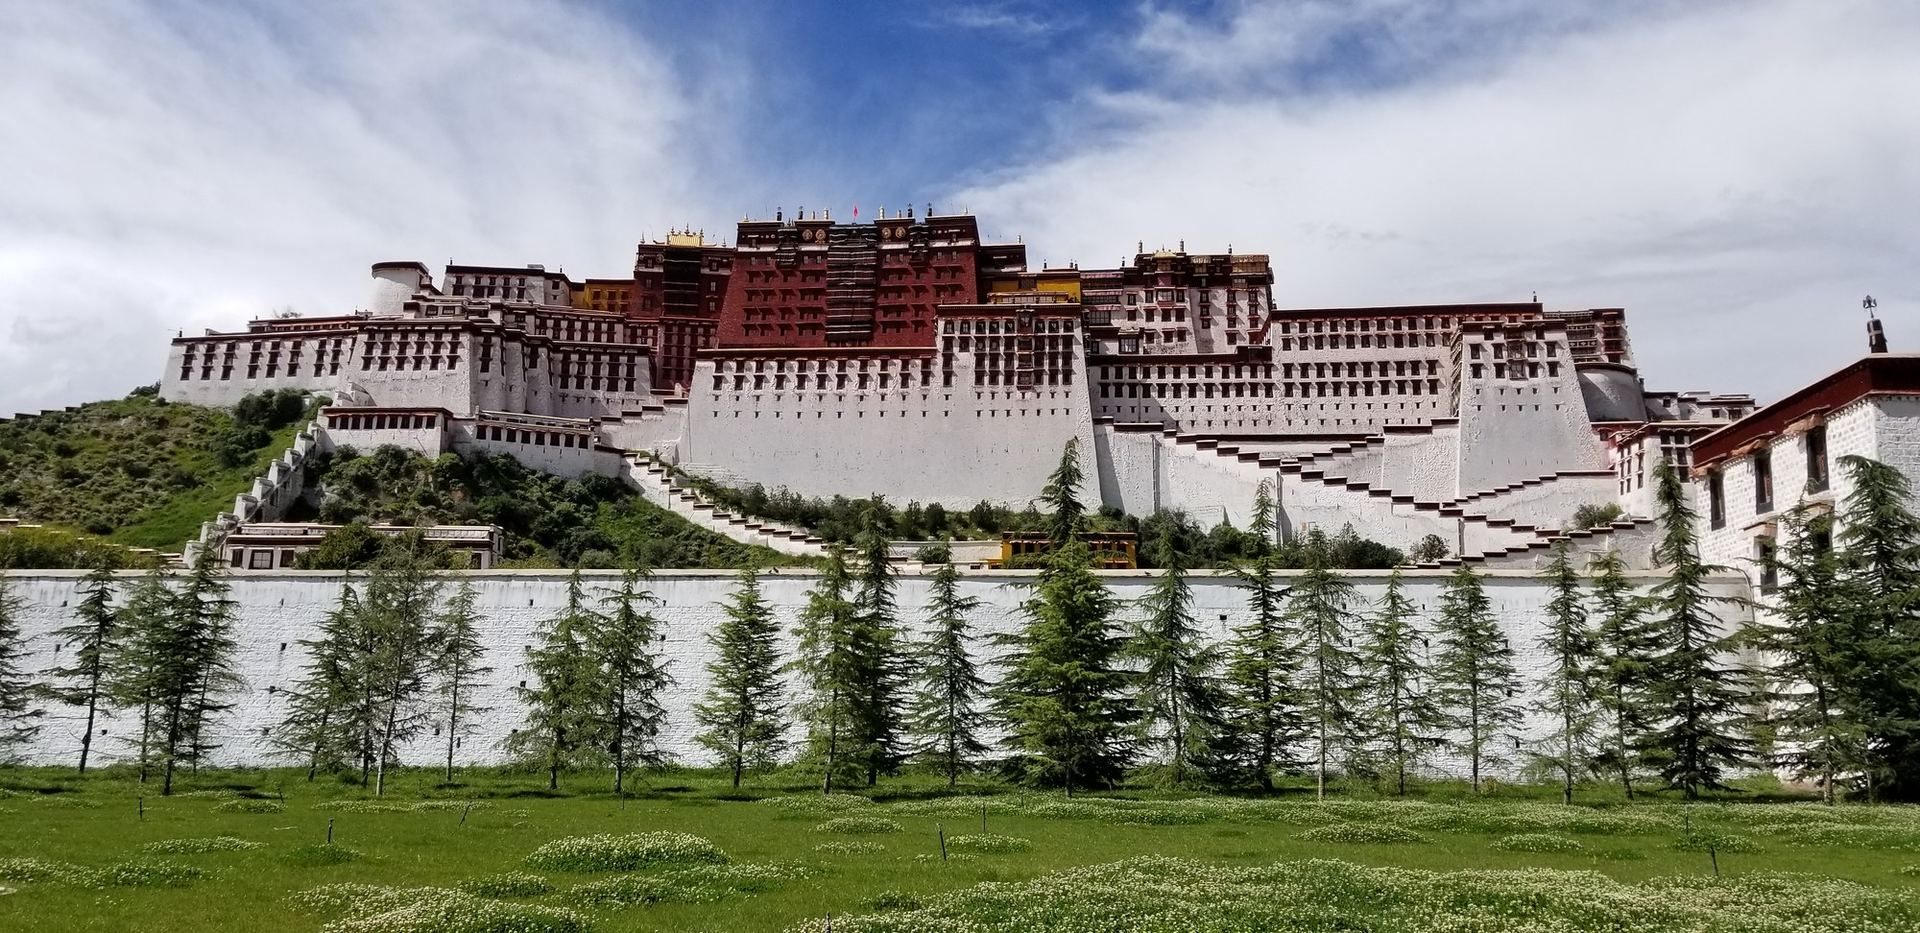
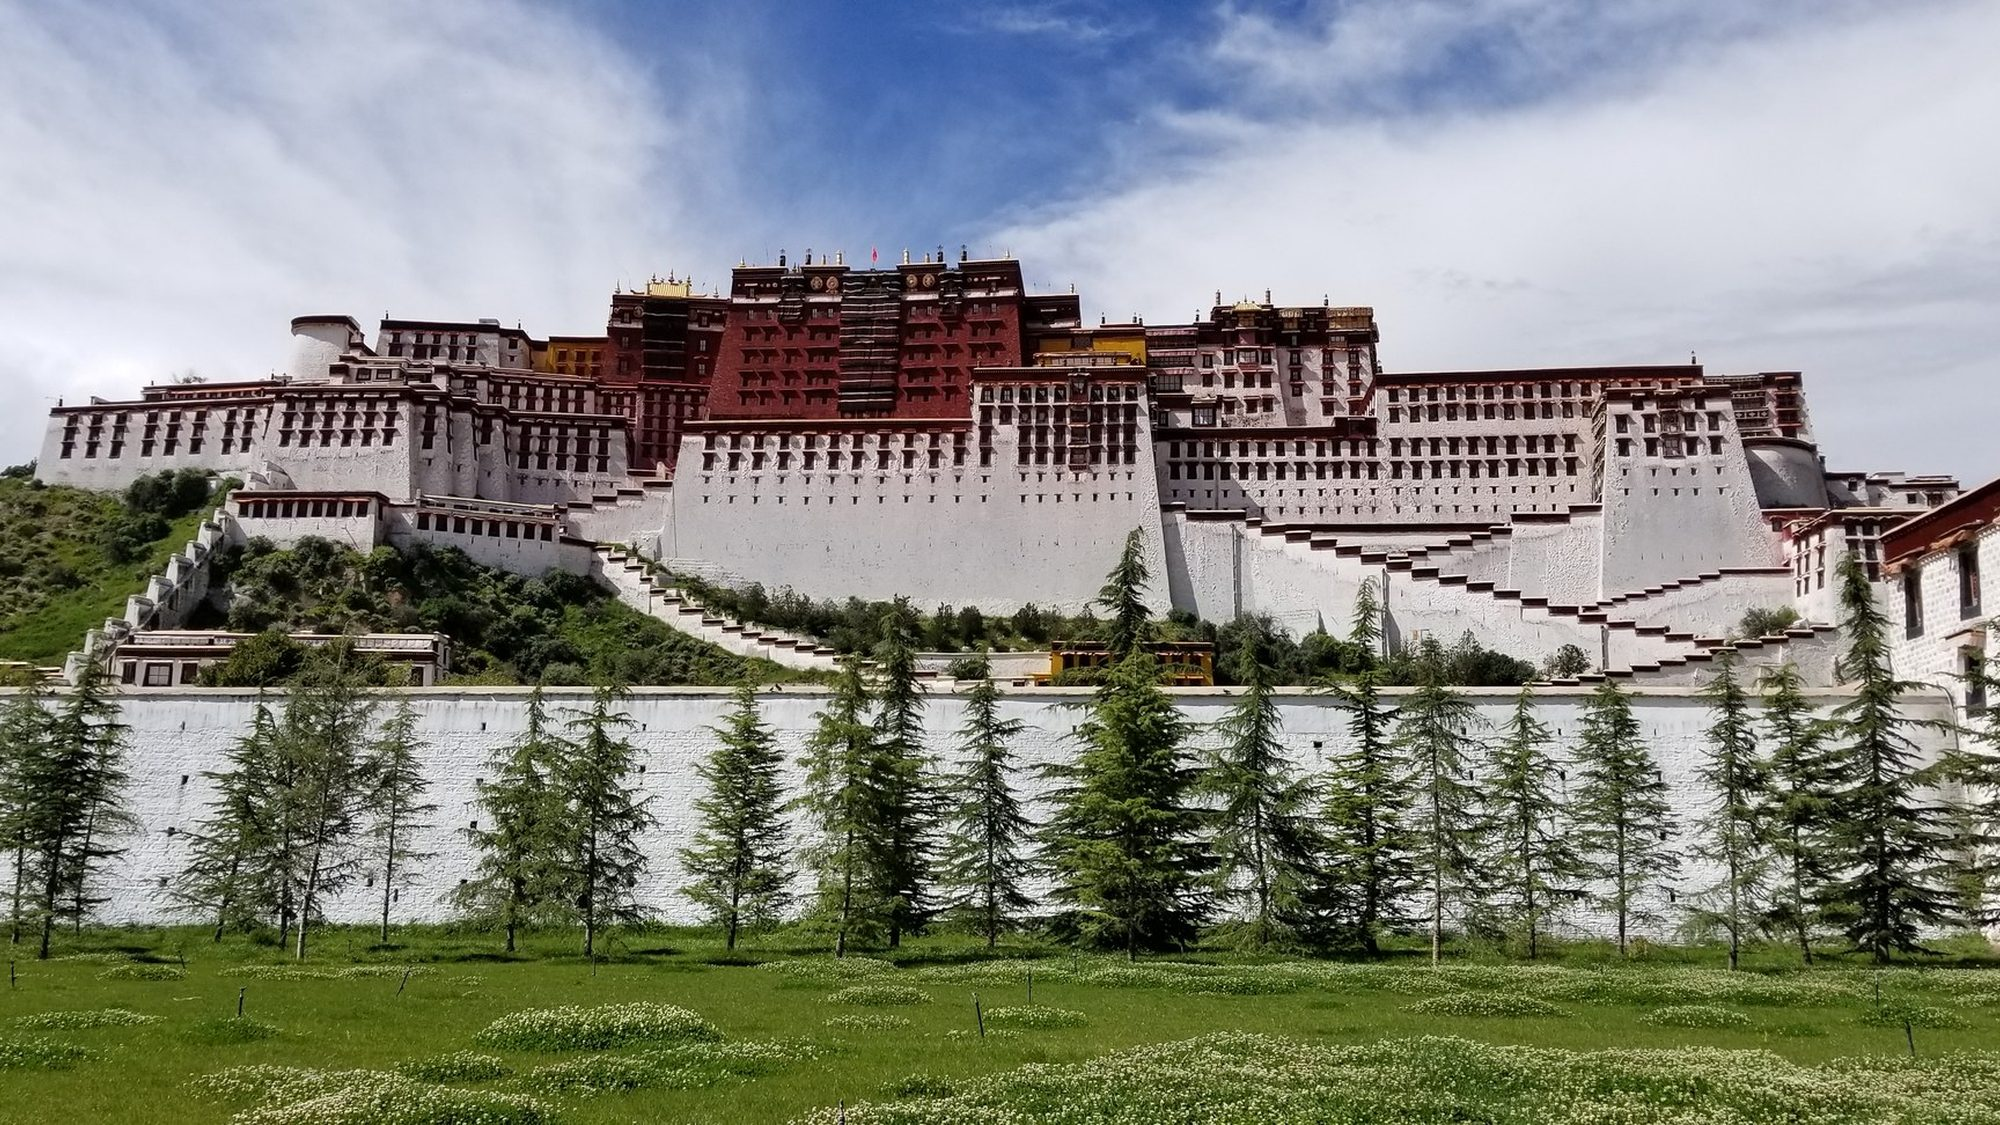
fix: the hero shows western Sichuan, and at full resolution
Two reports, both correct. The frames were soft, and three of the five were in
Yunnan on a business that runs out of Chengdu into western Sichuan.

The cause of the geography was a filter that only asked one question. Selection
ran on aspect ratio alone, and the widest files in the library happened to be
three Yunnan panoramas at 7872x2912 — so the frames that made the cut were the
ones that happened to be widest, and nothing ever asked where they were. A
site that says "Start in Chengdu. Go beyond." should not open on the Nu River.

Counting the library first: 30 western-Sichuan frames against 18 Yunnan ones,
but only 5 of the Sichuan set are wide enough unquestioned, and the Gongga
massif, the Genie cloud sea and the 318 hairpins were all sitting in the 4:3
remainder that an `ar >= 1.45` test discarded. That threshold was an opinion,
not a constraint; rendered 16:9 those frames crop, and the crop is worth
making. Four western-Sichuan frames now carry the first screen, with the
Potala Palace kept as the single non-Sichuan frame because there is a Lhasa
route and the site should not imply otherwise.

Resolution: 2560px rather than 1920. A full-bleed hero on a 2x display wants
3840, and 1920 was visibly soft. Two export rules followed from getting it
wrong twice:

- **Never upscale.** The Potala source is 2000px wide; rendering it at 2560 adds
  no detail, only softness and bytes. Every frame is now capped at its own
  source width.
[…]

diff --git a/src/app/[locale]/page.tsx b/src/app/[locale]/page.tsx
@@ -12,10 +12,15 @@ const routeSlugs = ['tibetan-walk-chengdu', 'go-west-go-tibet', 'tibetan-nomad']
  * Hero carousel frames, in order. Only the image paths live here; the captions
  * are translated, so they are filled in per locale below.
  *
- * `focus` is the crop anchor. These are 2.7:1 panoramas shown on a 16:9 screen,
- * so the browser crops roughly a third of the width away. `50% 50%` would slice
- * the ridgeline off the Meili shot and push the Potala Palace into the middle
- * of the frame; anchoring higher keeps sky and subject both in view.
+ * The crop is baked into the files, not left to the browser. Four of the five
+ * sources are 4:3, so exporting the whole frame and letting `object-fit: cover`
+ * trim it in the browser would ship three-quarters of a picture for pixels no
+ * visitor will ever see — about 2.4MB across five files. The exported JPEGs are
+ * already 16:9, cropped at the anchor chosen in `export-hero-frames.py`.
+ *
+ * That is also why there is no `focus` on these entries any more: cropping
+ * twice, once in the file and once with `object-position`, is two places to
+ * change when a frame needs to move, and only the first one is real.
  *
  * There is deliberately no per-frame veil. Two rounds of tuning one are
  * documented at the panel below; the short version is that no amount of
@@ -25,11 +30,11 @@ const routeSlugs = ['tibetan-walk-chengdu', 'go-west-go-tibet', 'tibetan-nomad']
  * them and needs no per-image tuning at all.
  */
 const HERO_FRAMES = [
-  { src: '/images/hero-meili.jpg', focus: '50% 46%' },
-  { src: '/images/hero-nujiang.jpg', focus: '50% 50%' },
-  { src: '/images/hero-potala.jpg', focus: '50% 44%' },
-  { src: '/images/hero-chuopu.jpg', focus: '50% 52%' },
-  { src: '/images/hero-bingzhongluo.jpg', focus: '50% 50%' },
+  { src: '/images/hero-batang.jpg' },
+  { src: '/images/hero-gongga.jpg' },
+  { src: '/images/hero-genie.jpg' },
+  { src: '/images/hero-ya318.jpg' },
+  { src: '/images/hero-potala.jpg' },
 ] as const;
 
 /** Most recent three reviews, newest first. Empty until reviews are added. */
@@ -97,7 +102,6 @@ export default async function Home({ params: { locale } }: { params: { locale: s
   */
   const heroSlides: HeroSlide[] = HERO_FRAMES.map((f, i) => ({
     src: f.src,
-    focus: f.focus,
     caption: t(`photo${i + 1}` as any),
   }));
   const heroSlideLabels = HERO_FRAMES.map((_f, i) =>

diff --git a/src/app/[locale]/hero-carousel.tsx b/src/app/[locale]/hero-carousel.tsx
@@ -5,15 +5,8 @@ import Image from 'next/image';
 
 export type HeroSlide = {
   src: string;
-  /** Place name shown bottom-left. Already localized by the caller. */
+  /** Place name shown bottom-right. Already localized by the caller. */
   caption: string;
-  /**
-   * Where the crop should sit. These are 2.7:1 panoramas being shown on a
-   * 16:9 screen, so `center` would slice off the ridgeline on the Meili shot
-   * and bury the Potala Palace in the middle of the frame. `50% 42%` keeps the
-   * sky and the peaks both in view.
-   */
-  focus?: string;
 };
 
 const INTERVAL_MS = 6000;
@@ -120,7 +113,6 @@ export default function HeroCarousel({
               sizes="100vw"
               quality={82}
               className="object-cover"
-              style={{ objectPosition: s.focus || '50% 50%' }}
             />
           </div>
         );

diff --git a/public/images/README.md b/public/images/README.md
@@ -1,23 +1,101 @@
 # Image Assets
 
-Drop your photos into this folder. All files should be JPG, optimized to ~200KB each.
+Photographs for the site. Everything here comes from the operator's own trips —
+the library under `网站素材-旅行风光/keep` in the working directory, reviewed
+frame by frame rather than bulk-imported.
 
-## Required Images
+## Naming
 
-| File | Size | Description |
-|------|------|-------------|
-| `hero-bg.jpg` | 1920×1280 | Hero section background — wide mountain landscape (Minya Konka / western Sichuan) |
-| `wuhouhengjie.jpg` | 800×1000 | ★ 武侯横街藏族聚居区街景 — Tibetan quarter street scene in Chengdu |
-| `walk-tour.jpg` | 600×400 | Chengdu Tibetan Walking Tour — Tibetan tea house or temple interior in the city |
-| `highland-trip.jpg` | 600×400 | 3-4 Day Highland Trip — Kangding, Tagong grasslands, or highland road scenery |
-| `nomad.jpg` | 600×400 | Nomad in Tibetan Area — Nomadic family, yak herding, or black tent on the plateau |
-| `litang.jpg` | 800×600 | Litang Old Town — Tibetan town street with traditional architecture |
-| `gongga.jpg` | 400×300 | Minya Konka (Gongga Shan) — Mountain peak or range view |
-| `tagong.jpg` | 400×300 | Tagong Grasslands — Wide grassland with yaks, tents, or people |
-| `zheduo.jpg` | 400×300 | Zheduo Pass — Prayer flags or mountain pass scenery at 4,298m |
+`hero-*.jpg` are the homepage carousel frames. Everything else is referenced by
+exact filename from a component, so a rename is a broken image at request time
+rather than a compile error. Check references before deleting:
+`grep -rn "hero-bg" src/ messages/`
+
+## The hero carousel
+
+Five frames, cycled at 6s, paused on hover and keyboard focus. They carry the
+first screen, so they are the only images on the site that must survive a
+high-DPI display at full-bleed size.
+
+| File | Source | Output | Size | Quality |
+|------|--------|--------|------|---------|
+| `hero-batang.jpg` | Batang grassland under blue sky, 4096×2304 | 2560×1440 | ~350KB | q82 |
+| `hero-gongga.jpg` | Gongga, 7,556 m from the Tudeng pass, 4096×3072 | 2560×1440 | ~430KB | q82 |
+| `hero-genie.jpg` | Genie cloud sea over the ridge, 4096×3072 | 2560×1440 | ~520KB | q82 |
+| `hero-ya318.jpg` | The 318, Yajiang to Litang, 4096×3072 | 2560×1440 | ~780KB | q76 |
+| `hero-potala.jpg` | The Potala Palace, Lhasa, 2000×972 | 2000×1125 | ~530KB | q82 |
+
+Two rules govern the exports, both learned the hard way:
+
+- **Never upscale.** The Potala source is 2000px wide; rendering it at 2560 adds
+  no detail, only softness and bytes.
+- **Crop at export, not in the browser.** Four of the five sources are 4:3.
+  Exporting the whole frame and letting `object-fit: cover` trim it would ship
+  ~2.4MB of pixels the browser immediately discards. The files are already
+  16:9, cropped at the anchor chosen in `export-hero-frames.py`, so the crop
+  lives in exactly one place.
+
+Quality is per-frame. `hero-ya318.jpg` is wall-to-wall gravel and tarmac, an
+unusual density of high-frequency detail, and stayed at 780KB even after the
+crop; it is the one frame at q76, which is not distinguishable on a photograph
+of a road.
+
+`hero-potala.jpg` is the only non-Sichuan frame and is kept deliberately: there
+is a Lhasa route, and the site should not imply otherwise.
+
+### Recropping
+
+The vertical anchor decides whether the subject survives. Comparing options
+rather than centring:
+
+| Frame | Anchor | Why |
+|-------|--------|-----|
+| `hero-ya318.jpg` | 38% | the hairpin fills the frame; at 50% the bend drops to the edge and the cut lands halfway through a car's roof |
+| `hero-gongga.jpg` | 46% | keeps the 7,556 m peak in frame; centred, it is pushed into the top third |
+| `hero-genie.jpg` | 48% | cloud sea stays level with the ridge |
+| `hero-potala.jpg` | 44% | the palace sits above the copy panel rather than behind it |
+
+## Gallery and card images
+
+The 13-tile gallery and the route cards are CSS `background-image: cover`
+tiles, so their sources may be any proportion — centre the subject when choosing
+the crop. They are exported at 1400–1600px on the long edge, which is what they
+are displayed at; there is no reason to re-export them at hero resolution.
+
+| File | Size | Used for |
+|------|------|----------|
+| `wuhouhengjie.jpg` | 1000×1362 | Tibetan quarter street, Chengdu |
+| `walk-tour.jpg` | 1600×2133 | Tibetan walking tour |
+| `highland-trip.jpg` | 1400×1050 | Highlander trip card |
+| `nomad.jpg` | 1400×933 | Nomad card |
+| `litang.jpg` | 1600×900 | Litang, and the gallery lead tile |
+| `gongga.jpg` | 1600×1200 | Gongga Shan |
+| `tagong.jpg` | 1400×1050 | Tagong grasslands |
+| `serda.jpg` | 1600×1200 | Serda |
+| `grassland.jpg` | 1400×1050 | Grassland |
+| `lakes.jpg` | 1400×1050 | Lakes |
+| `yading.jpg` | 1400×1050 | Yading |
+| `danba.jpg` | 1400×1050 | Danba |
+| `muya.jpg` | 1400×1867 | Muya monastery |
+| `erhai-cangshan.jpg` | 2400×1800 | Gallery — Dali, on the Yunnan itinerary |
+| `meili-sunrise.jpg` | 1920×887 | Gallery + the Yunnan itinerary's hero |
+| `potala-panorama.jpg` | 2200×1069 | Gallery — Lhasa |
+| `lugu-lake.jpg` | 2000×1500 | Gallery — Lugu Lake |
+| `dali-old-town.jpg` | 1600×1200 | Gallery — Dali |
+| `ranwu-lake.jpg` | 2200×1650 | Gallery — Ranwu |
+| `laigu-glacier.jpg` | 2000×1500 | Gallery — Laigu |
+| `jiuzhaigou-tigerlake.jpg` | 2000×1500 | Gallery — Jiuzhaigou |
+
+## Not used
+
+`zheduo.jpg` is in the folder and referenced by nothing. It is kept because the
+Zheduo pass crossing at 4,298m is worth having when a route page needs it, and
+deleting a library file that no page happens to use yet is a smaller mistake
+than re-shooting it.
 
 ## Notes
 
-- 所有图片会被 CSS `background-image: cover` 裁剪，注意构图时主体居中
-- 建议先用 Unsplash 临时图测试布局，再替换为自己的照片
-- 文件名必须与上表完全一致（区分大小写）
+- 站点照片应体现真实行程地理 —— 不要用其他地区的图（一张大理行程配甘孜草原是地理错误）
+- 首屏只有第一张 hero 图是 eager 加载的，其余懒加载；换图后确认首屏体积
+- 所有图片在 `/images` 下直接访问，无 CDN 重写；`?v=` 查询串用于缓存失效
+
